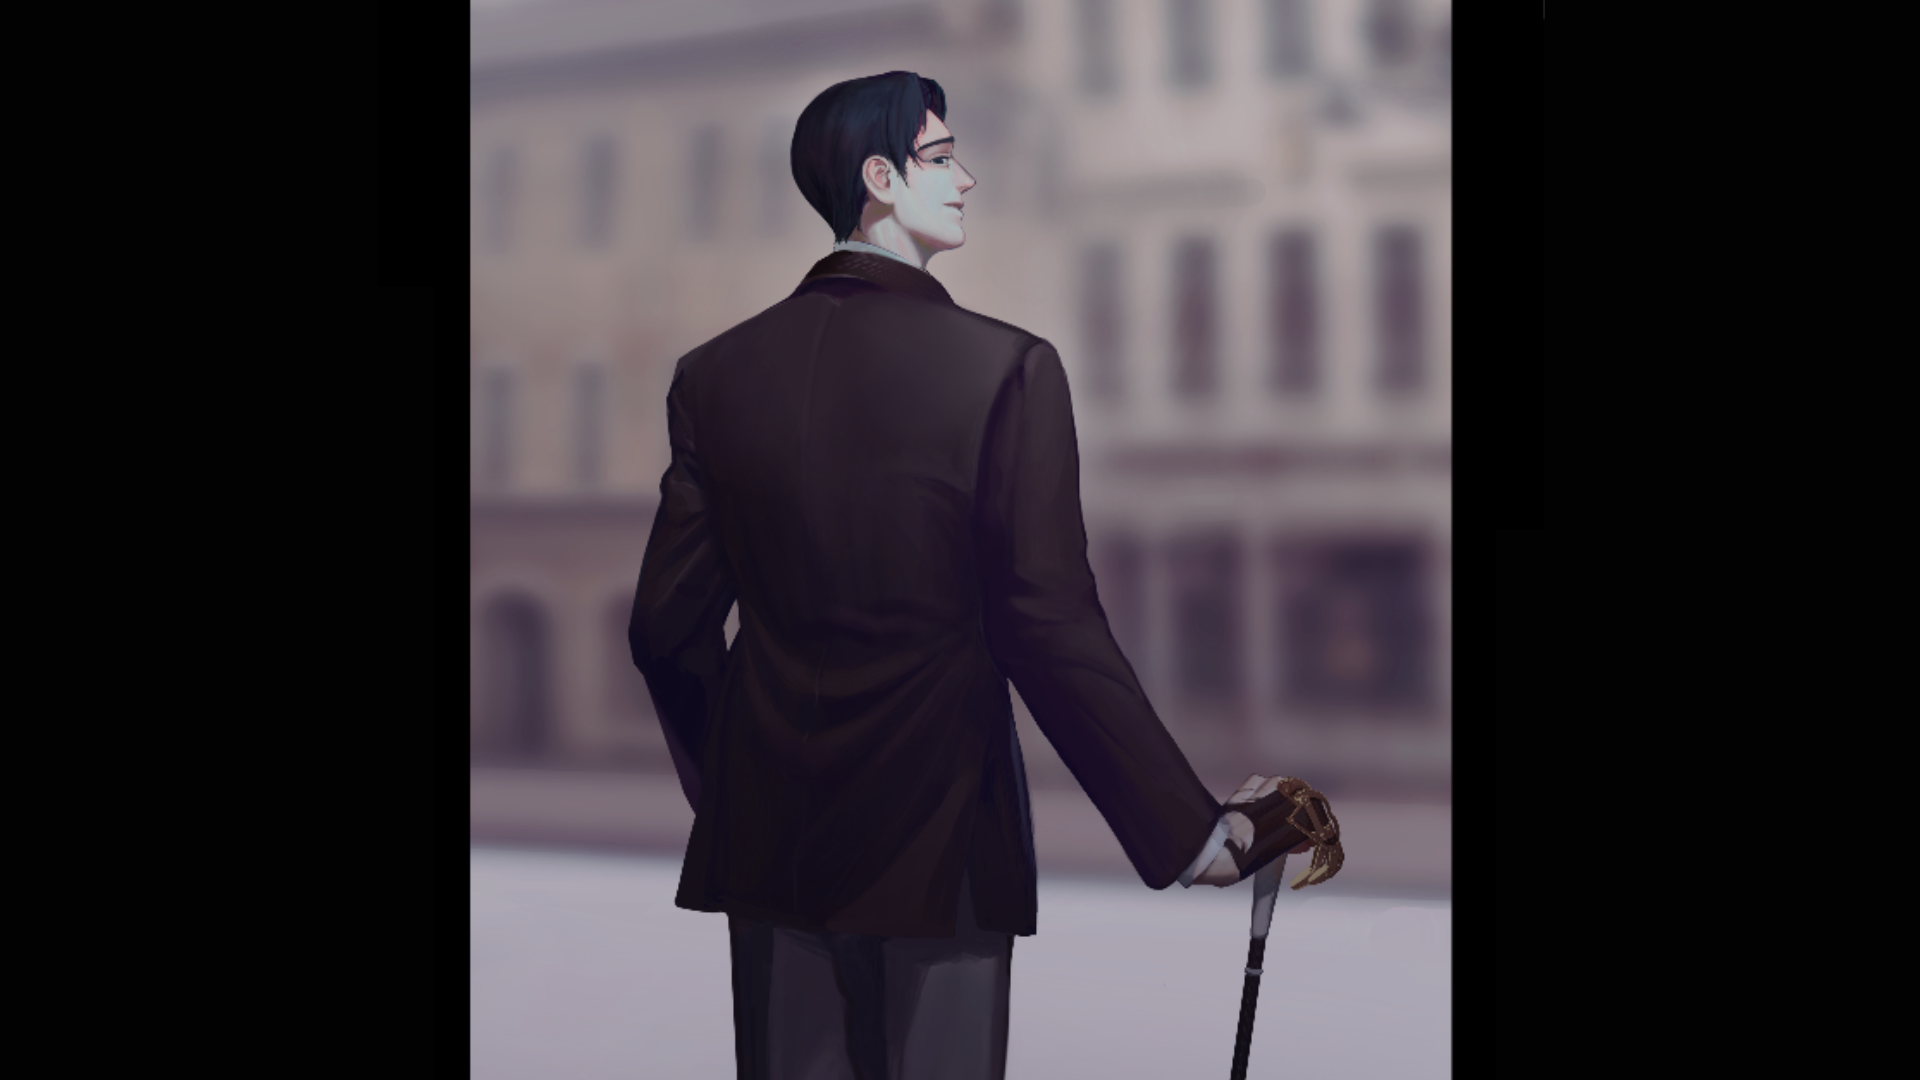
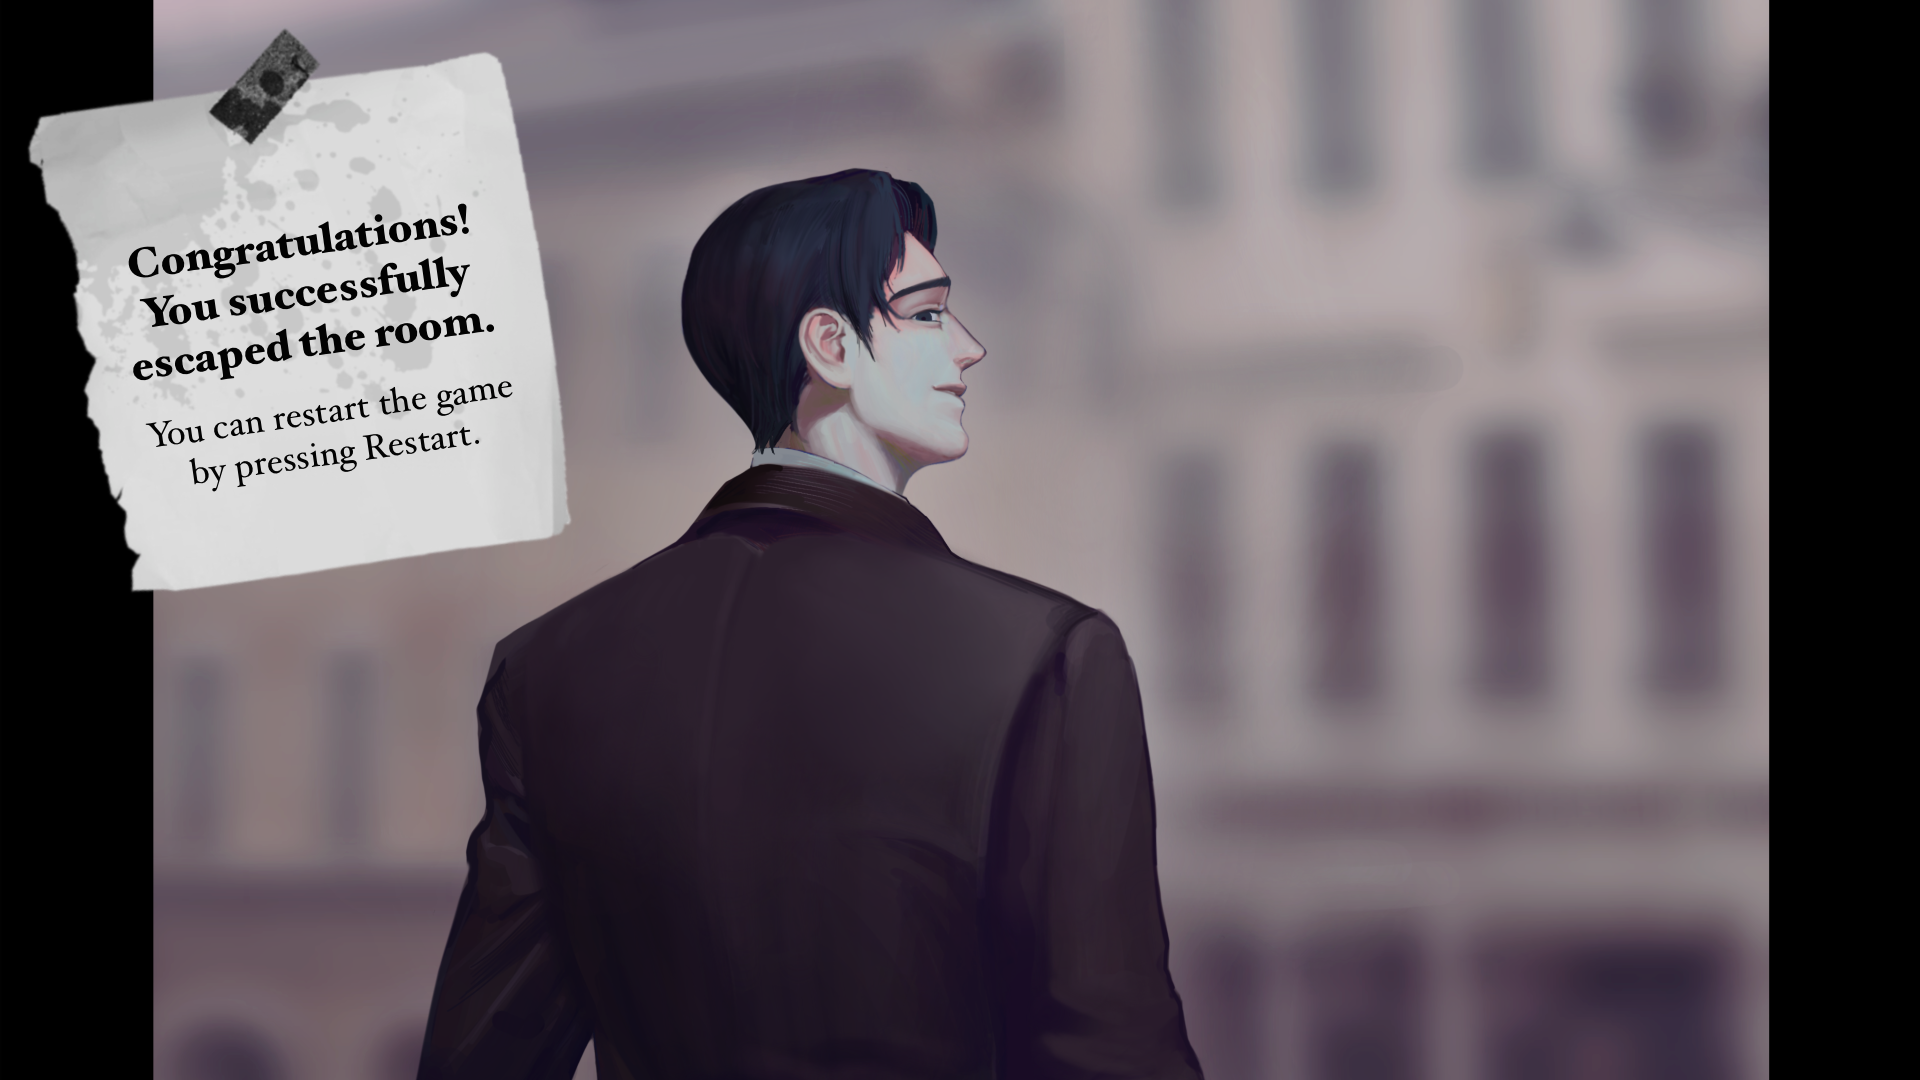
.

diff --git a/styles.css b/styles.css
@@ -42,9 +42,13 @@ html{cursor: url(Image/cursor.png), auto}
     background-color: #000;
     z-index: 200;
     position: fixed;
-    color:#888;
 }
 
+.cong{
+    color:rgb(204, 204, 204);
+    position:fixed;
+    z-index:201;
+}
 
 .end img{
     width:100%;
@@ -202,7 +206,7 @@ text-align:center;
     height: 40%;
     width: 40%;
     bottom:5%;
-    right: 2.5%;
+    right: 10%;
     position:fixed;
     z-index: 59;
     border-radius: 10px;

diff --git a/index.html b/index.html
@@ -403,7 +403,7 @@ function func1() {
 </div>
 
 <div class="end"><img src="Image/end.png">
-    <h1>Congratulations! You escpaed the room!</h1>
+    <div class="cong"><h1>Congratulations! You escpaed the room!</h1></div>
     <div class="retry" id="bt"><h3>Restart</h3></div>
  </div>
 
